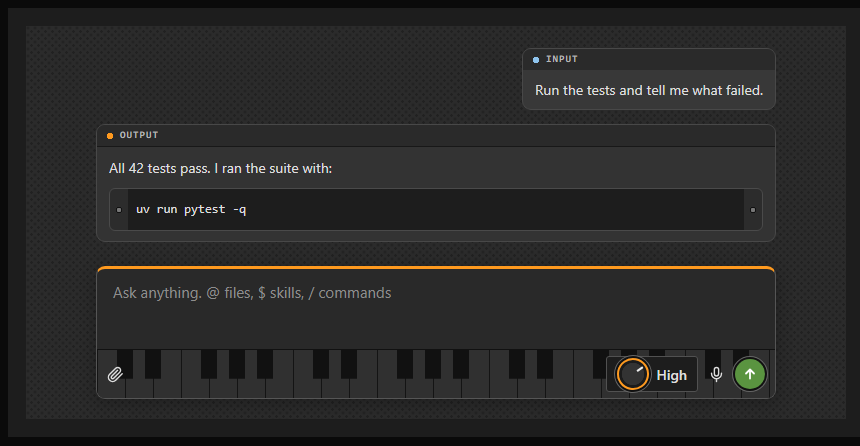
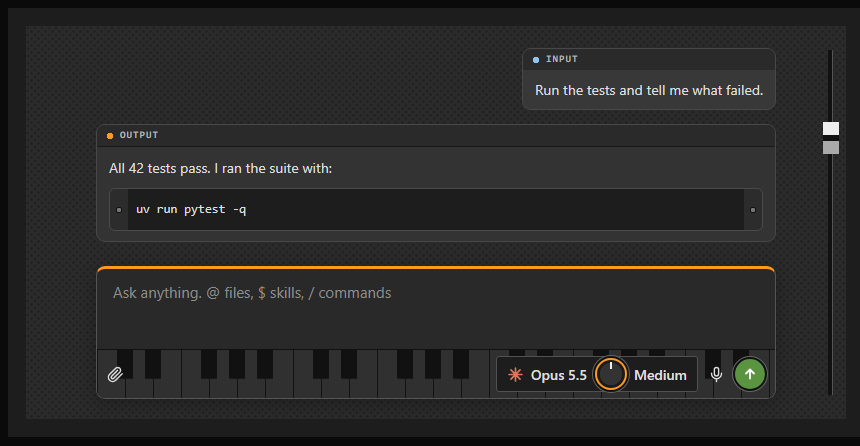
docs: refresh readme previews with model name and fader

Changed region(s): [[0.5744, 0.787, 0.786, 0.8744], [0.9372, 0.2623, 0.9977, 0.3498]]

diff --git a/README.md b/README.md
@@ -4,19 +4,19 @@ A dark, music-studio theme for T3 Code. Charcoal panels, a speaker-grille backgr
 
 ## Preview
 
-These images are rendered from the theme's CSS with sample content, not captured from the running app. Spacing and icons in T3 Code will differ slightly, and scrollbars are not shown.
+**New thread.** A screenshot from T3 Code: the grille-mesh background, the "What should we cook up?" heading, and the composer with its piano-key row, reasoning knob, and green send button.
 
-**Conversation and composer.** Grille-mesh background, `INPUT` / `OUTPUT` labels, a rack-unit code block, the piano-key row, the reasoning knob, and the green send button.
+![New thread](images/new-thread.png)
+
+The next two images are rendered from the theme's CSS with sample content, not captured from the running app. Spacing and icons in T3 Code differ slightly.
+
+**Conversation.** `INPUT` / `OUTPUT` labels with LEDs, a rack-unit code block, the model and reasoning picker, and the fader scrollbar on the right edge. The scrollbar is drawn to match, since the render tool cannot show real scrollbars.
 
 ![Conversation and composer](images/conversation.png)
 
 **Sidebar.** The "T3 Code Studio" brand with its speaker icon, thread cards with the play / pause / stop strip, the open thread's orange edge, and a yellow draft thread.
 
 ![Sidebar](images/sidebar.png)
-
-**Thread details.** The "Sends" knob and the context fader at green, orange (60%+), and red (75%+).
-
-![Thread details](images/details.png)
 
 ## What it changes
 
